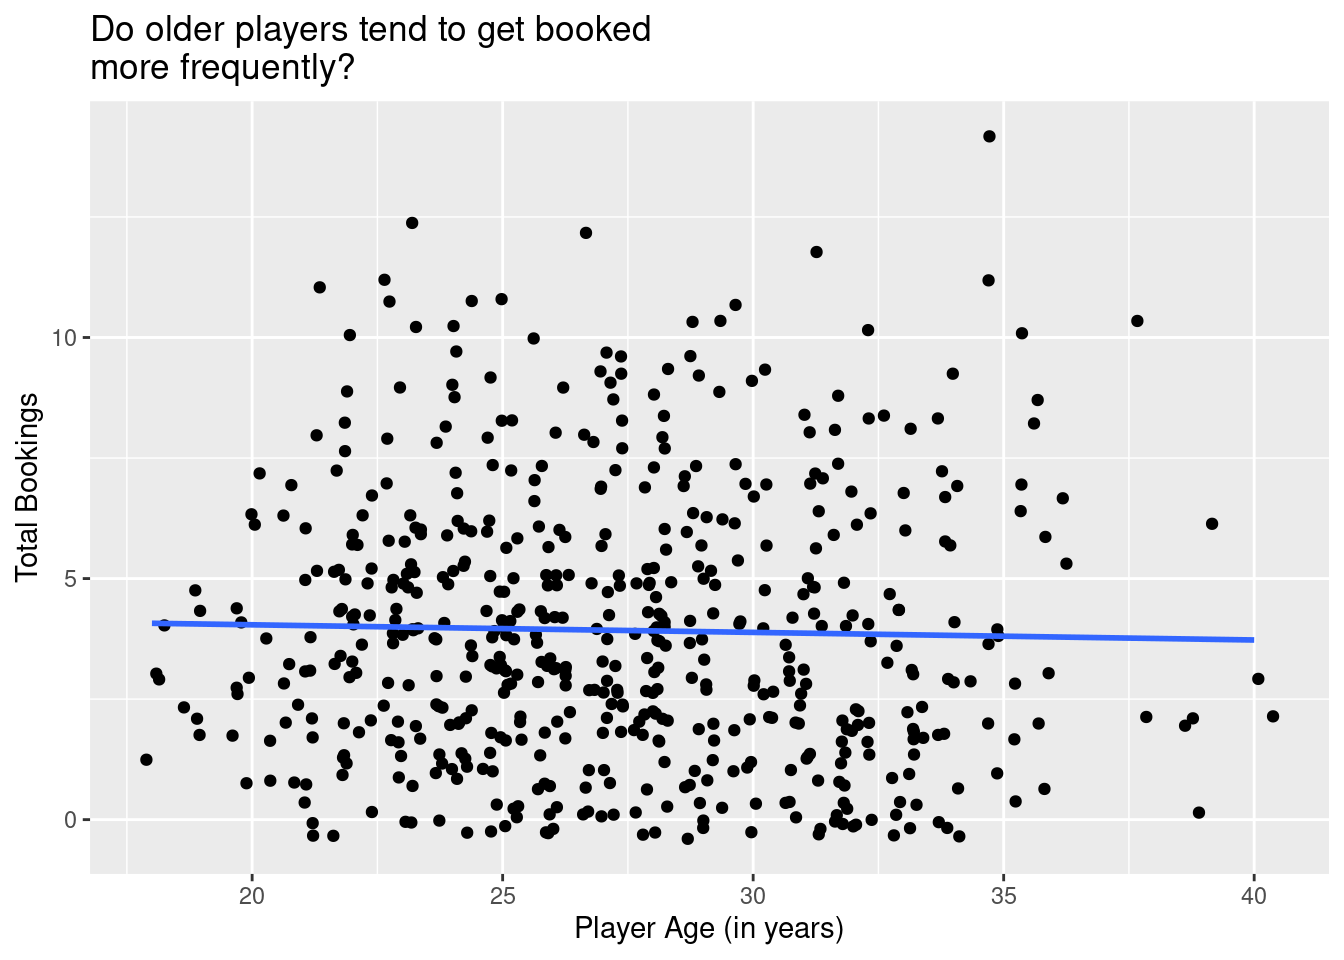
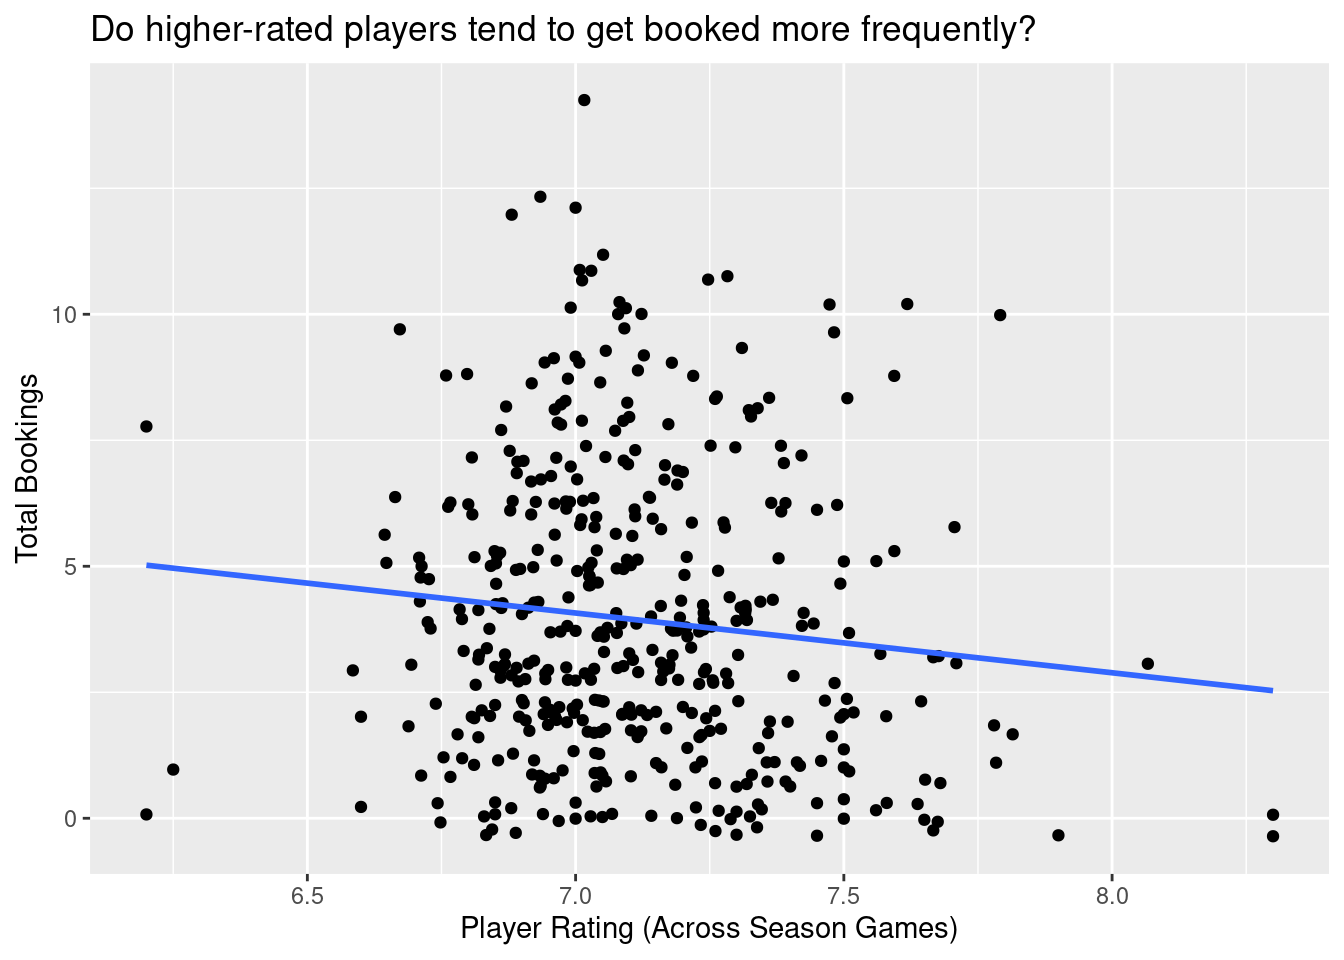
Reorg work.

diff --git a/docs/report.html b/docs/report.html
@@ -130,7 +130,7 @@ ul.task-list li input[type="checkbox"] {
   <li><a href="#evaluation-of-significance" id="toc-evaluation-of-significance" class="nav-link" data-scroll-target="#evaluation-of-significance">Evaluation of significance</a></li>
   <li><a href="#interpretation-and-conclusions" id="toc-interpretation-and-conclusions" class="nav-link" data-scroll-target="#interpretation-and-conclusions">Interpretation and conclusions</a></li>
   <li><a href="#limitations" id="toc-limitations" class="nav-link" data-scroll-target="#limitations">Limitations</a></li>
-  <li><a href="#acknowledgments-john" id="toc-acknowledgments-john" class="nav-link" data-scroll-target="#acknowledgments-john">Acknowledgments [John]</a></li>
+  <li><a href="#acknowledgments" id="toc-acknowledgments" class="nav-link" data-scroll-target="#acknowledgments">Acknowledgments</a></li>
   <li><a href="#appendix" id="toc-appendix" class="nav-link" data-scroll-target="#appendix">Appendix</a>
   <ul class="collapse">
   <li><a href="#data-collection-and-cleaning" id="toc-data-collection-and-cleaning" class="nav-link" data-scroll-target="#data-collection-and-cleaning">Data Collection and Cleaning</a></li>
@@ -161,15 +161,16 @@ ul.task-list li input[type="checkbox"] {
 
 <section id="introduction" class="level1">
 <h1>Introduction</h1>
-<p>This motivation behind this project was to determine whether or not there were relationships between soccer players or leagues, and statistics. The data for the top 20 football goal scorers in 2021 for the leagues specified in our GET request were sourced from: https://www.api-football.com/documentation-v3. Each observation also includes descriptors such as height, weight, nationality, passes, goals scored, assists, penalties, etc. Through our project we aimed to answer the following research questions:</p>
+<p>The motivation behind this project was to determine whether or not there were relationships between soccer players, leagues, and their respective statistics. Each observation represents a player, and columns represent descriptors such as height, weight, nationality, passes, goals scored, assists, penalties, etc. Since soccer is such a popular global sport, we aimed to answer the following research questions in our project:</p>
 <ul>
-<li><p>RQ 1 (Players): Is there a correlation between the height, weight, age, and/or player rating on specific game statistics (Including, but not limited to: goals scored, assists, penalties, passes, etc.)?</p></li>
-<li><p>RQ 2 (Leagues): Do game statistics differ across leagues (goals_total)?</p></li>
+<li><p>RQ 1 (Players): What factors influence booking frequency of players? Some factors we considered were player height, weight, age, and player rating.</p></li>
+<li><p>RQ 2 (Leagues): Does aggressiveness differ between European and non-European leagues? Aggressiveness was indirectly measured through average penalties per game, average goals per minute, average shots per game, and average number of duels per game.</p></li>
 </ul>
-<p>We found that there were not significant relationships in the EDA, and further confirmed so in our “Evaluation of Significance” section. However, it was found that one game statistic did significantly differ between European and non-European leagues_ number of total duels.</p>
+<p>Summary of findings/results: XXXXX (to be filled in after)</p>
 </section>
 <section id="data-description" class="level1">
 <h1>Data description</h1>
+<p>The data for the top 20 football goal scorers in 2021 for the leagues specified in our GET request were sourced from: https://www.api-football.com/documentation-v3.</p>
 <p>This dataset was created to rank and compare the top scoring football players across top leagues. This could be helpful for football fans, sports betters, or data scientists. There are 560 observations and 51 attributes (columns). The dataset contains player statistics (ex/ number of appearances, number of minutes played, number of yellow or red cards attained) for the top 20 scorers from the top 27 football leagues for the 2021 league season. The people involved are football players, who are aware of data collection, as this occurs during and after all of their games, because sports data is typically used to make general comparison (past/future versions of themselves, comparing their team to another, or between leagues, sports reporting (to football fans), or MVP decisions. As this is game data, it was likely influenced by referee rulings, as some scores may not have counted in the final game statistics.</p>
 <ul>
 <li><p>What preprocessing was done</p>
@@ -221,13 +222,13 @@ ul.task-list li input[type="checkbox"] {
 5 games_rating      -1.13      0.524     -2.15   0.0321</code></pre>
 </div>
 </div>
-<p>Based on the above results, player rating is the only predictor with a p-value &lt; the significance level, 0.05. The following hypothesis test is to determine whether or not the true difference in population means of higher rated players (players with ratings &gt;= mean) and lower rated players (players with ratings &lt; mean) is significant:</p>
+<p>Based on the above results, player rating is the only predictor with a p-value &lt; the significance level, 0.05. Based on the side-by-side box plot representing the distribution of total bookings for highly rated players vs non-highly rated players, it appears as though non-highly ranked players get booked more frequently. However, the visualization itself does not tell us if that difference is significant. The following hypothesis test is to determine whether or not the true difference in population means of higher rated players (players with ratings &gt;= mean rating) and lower rated players (players with ratings &lt; mean rating) is significant:</p>
 <ul>
-<li><p>Null Hypothesis: The true population mean of bookings for highly rated players and non-highly rated players are not different, on average. <span class="math display">\[ \mu_{high books} - \mu_{non-high books} = 0 \]</span></p></li>
+<li><p>Null Hypothesis: The true population mean of bookings for highly rated players and non-highly rated players are not different, on average. <span class="math display">\[ \mu_{high} - \mu_{non-high} = 0 \]</span></p></li>
 <li><p>Alternative Hypothesis: The true population mean of bookings for highly rated players and non-highly rated players are different, on average.</p></li>
 </ul>
 <p><span class="math display">\[
-\mu_{high books} - \mu_{non-high books} \not = 0
+\mu_{high} - \mu_{non-high} \not = 0
 \]</span></p>
 <div class="cell">
 <div class="cell-output cell-output-stdout">
@@ -292,6 +293,22 @@ ul.task-list li input[type="checkbox"] {
 </div>
 </div>
 <p>The p-value is &lt; alpha i.e significance level of 0.05, therefore we reject the null hypothesis. The data provides convincing evidence that the true population mean of bookings for highly rater players and non-highly rated players are different, on average.</p>
+<p>Analysis 2: Does the amount of goals per minute, on average, differ between European and non-European leagues?</p>
+<ul>
+<li><p>Null hypothesis: The true population mean of goals per minute for European and non-European players are not different, on average. <span class="math display">\[ \mu_{EU gpm} - \mu_{non-EU gpm} = 0 \]</span></p></li>
+<li><p>Alt hypothesis: The true population mean of goals per minute for European and non-European players are different, on average.</p></li>
+</ul>
+<p><span class="math display">\[ \mu_{EU gpm} - \mu_{non-EU gpm} \not= 0
+\]</span></p>
+<div class="cell">
+<div class="cell-output cell-output-stdout">
+<pre><code># A tibble: 1 × 1
+  p_value
+    &lt;dbl&gt;
+1   0.196</code></pre>
+</div>
+</div>
+<p>In running the hypothesis test, we get a p-value of 0.196 which is greater than the significance level of 0.05. Thus, we fail to reject the null hypothesis and conclude that there is not a proven statistically significant difference in the population means of average goals per minute of European vs Non-European leagues.</p>
 </section>
 <section id="interpretation-and-conclusions" class="level1">
 <h1>Interpretation and conclusions</h1>
@@ -320,13 +337,17 @@ ul.task-list li input[type="checkbox"] {
 <p>One limitation of this dataset is that it only contains information from the 2021 season. Therefore, we cannot make comparisons within groups (player, team, or league) over time. We also assume that there are no goalies in the dataset (best scorers i.e.&nbsp;offensive players), as this only contains goal scorers. Therefore, we are unable to assess a team’s defense, which can be important when considering how good a team is!</p>
 <p><strong><em>Add: is there a bias in our data?</em></strong></p>
 </section>
-<section id="acknowledgments-john" class="level1">
-<h1>Acknowledgments [John]</h1>
+<section id="acknowledgments" class="level1">
+<h1>Acknowledgments</h1>
+<p>In working on our project, we found several resources to be useful. For one, we would like to give credit to the API that we used to collect the data as well as to Stack Overflow for assisting with the API interaction as well as JSON handling in R. More specifically, the API was provided by https://www.api-football.com and specific documentation on how to interact with the endpoints in different languages was given by RapidAPI.</p>
+<p>Apart from this, we took inspiration from some of the organization we saw during our peer review section. Specifically, after looking at the Skillful Charmander group, we decided to re-organize our analysis sections.</p>
+<p>Beyond our specific technical and organizational acknowledgements, we would like to acknowledge our appreciation for the course staff and teaching assistants who helped us in answering any questions we have had along the way.</p>
 </section>
 <section id="appendix" class="level1">
 <h1>Appendix</h1>
 <section id="data-collection-and-cleaning" class="level3">
 <h3 class="anchored" data-anchor-id="data-collection-and-cleaning">Data Collection and Cleaning</h3>
+<p>The data for the top 20 football goal scorers in 2021 for the leagues specified in our GET request were sourced from: https://www.api-football.com/documentation-v3.</p>
 <p>Have an initial draft of your data cleaning appendix. Document every step that takes your raw data file(s) and turns it into the analysis-ready data set that you would submit with your final project. Include text narrative describing your data collection (downloading, scraping, surveys, etc) and any additional data curation/cleaning (merging data frames, filtering, transformations of variables, etc). Include code for data curation/cleaning, but not collection.</p>
 <div class="cell">
 <div class="cell-output cell-output-stdout">
